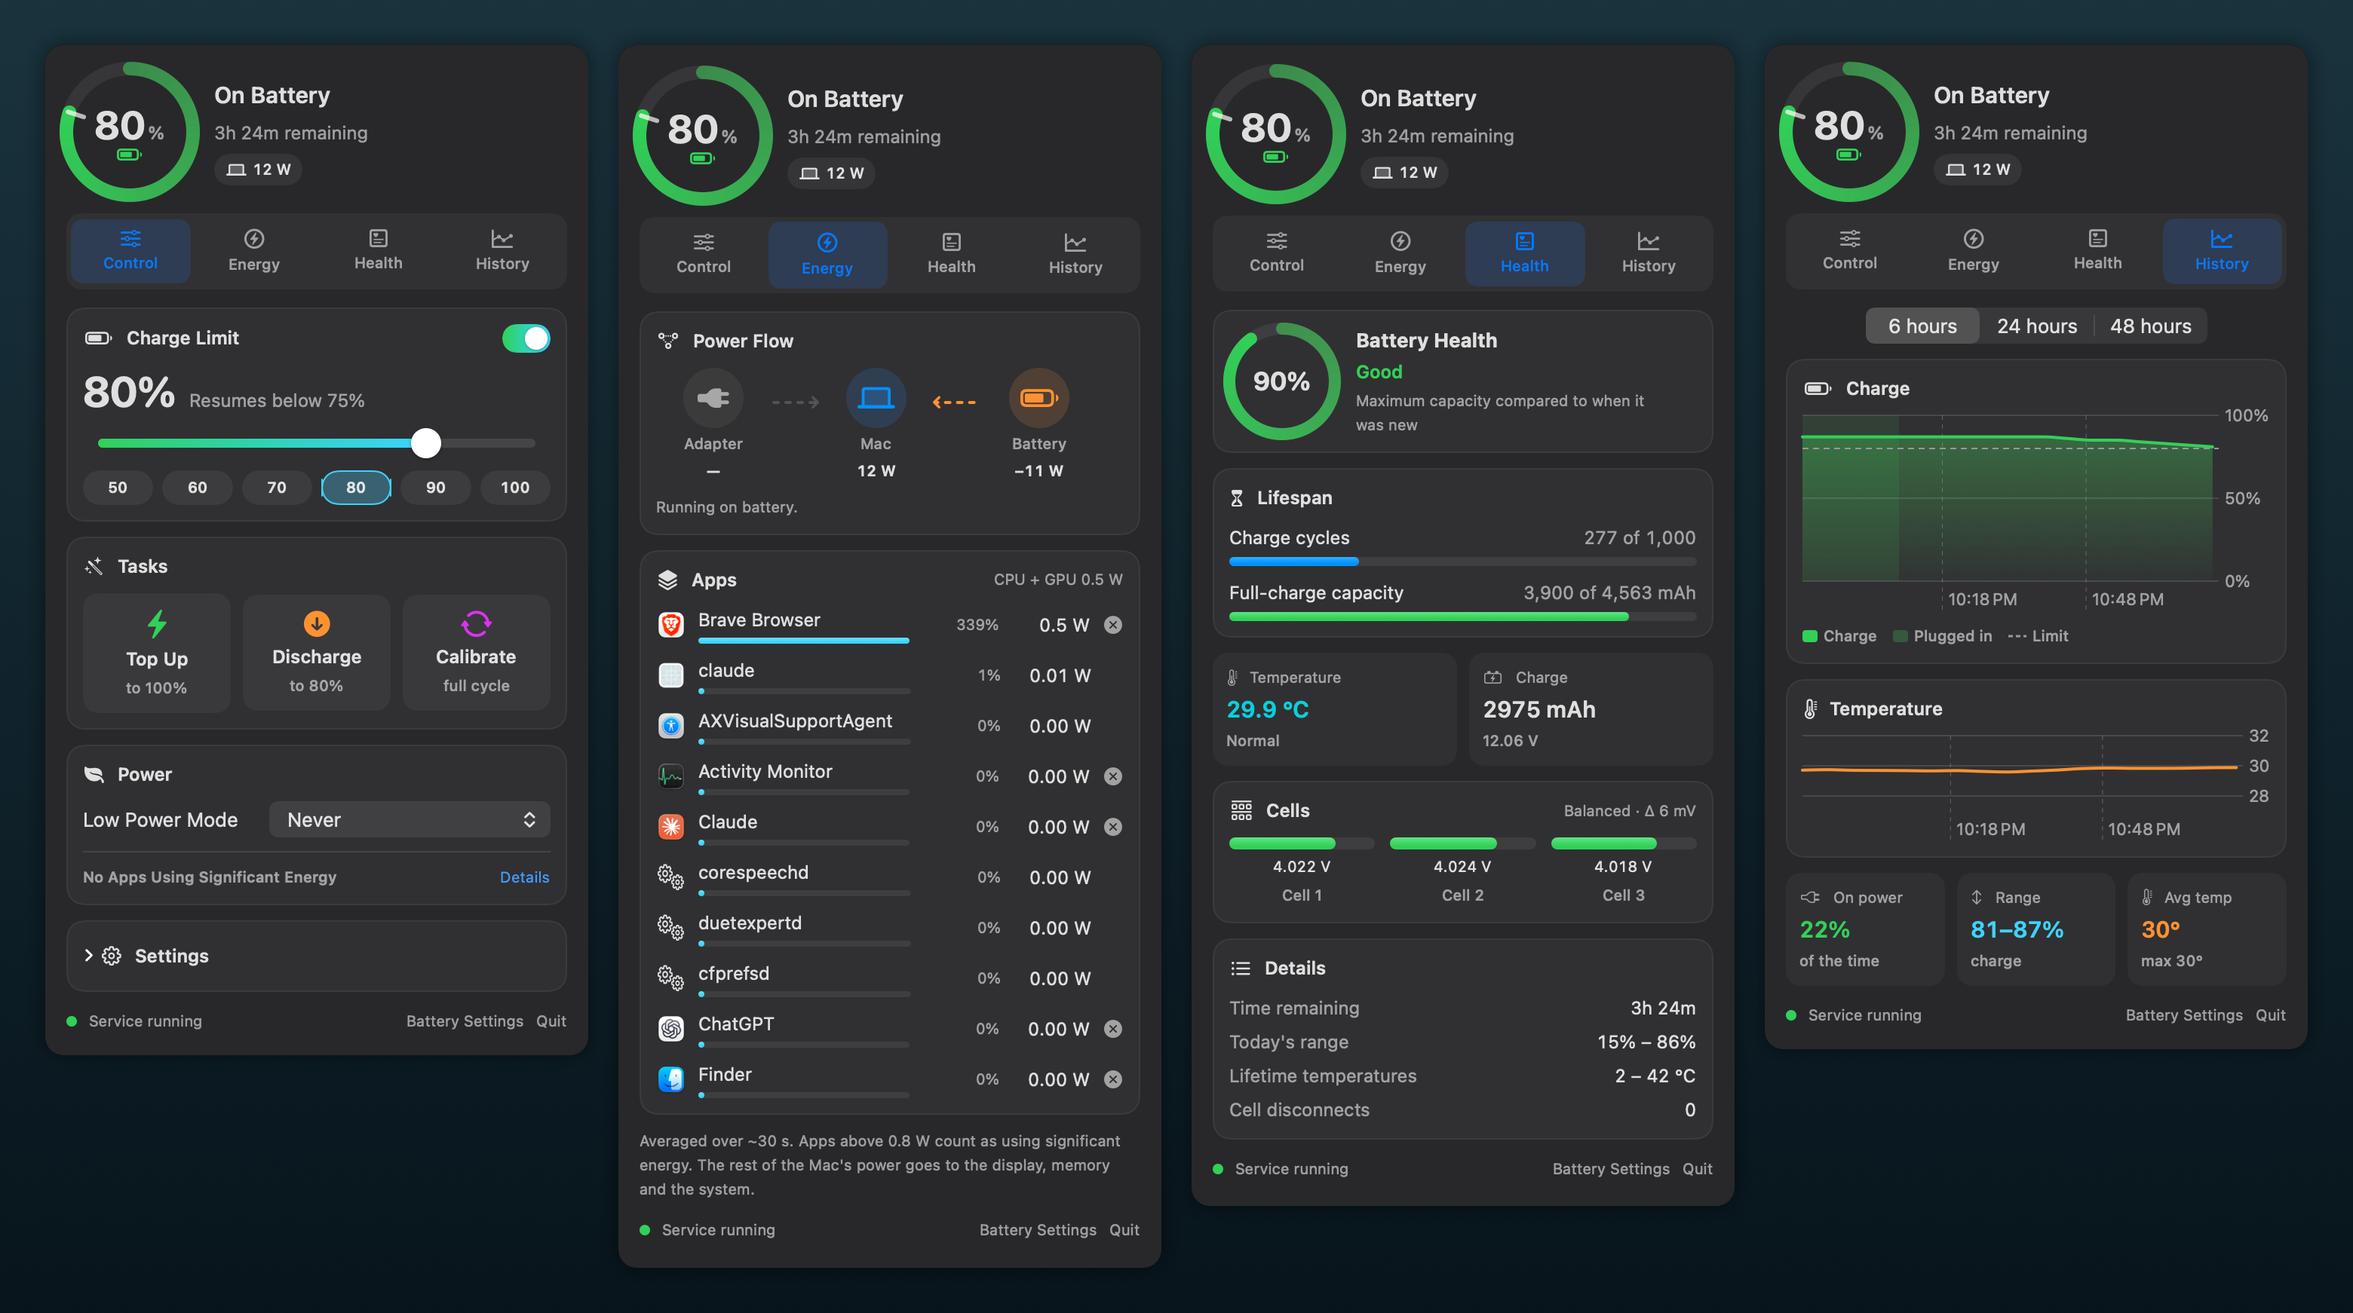
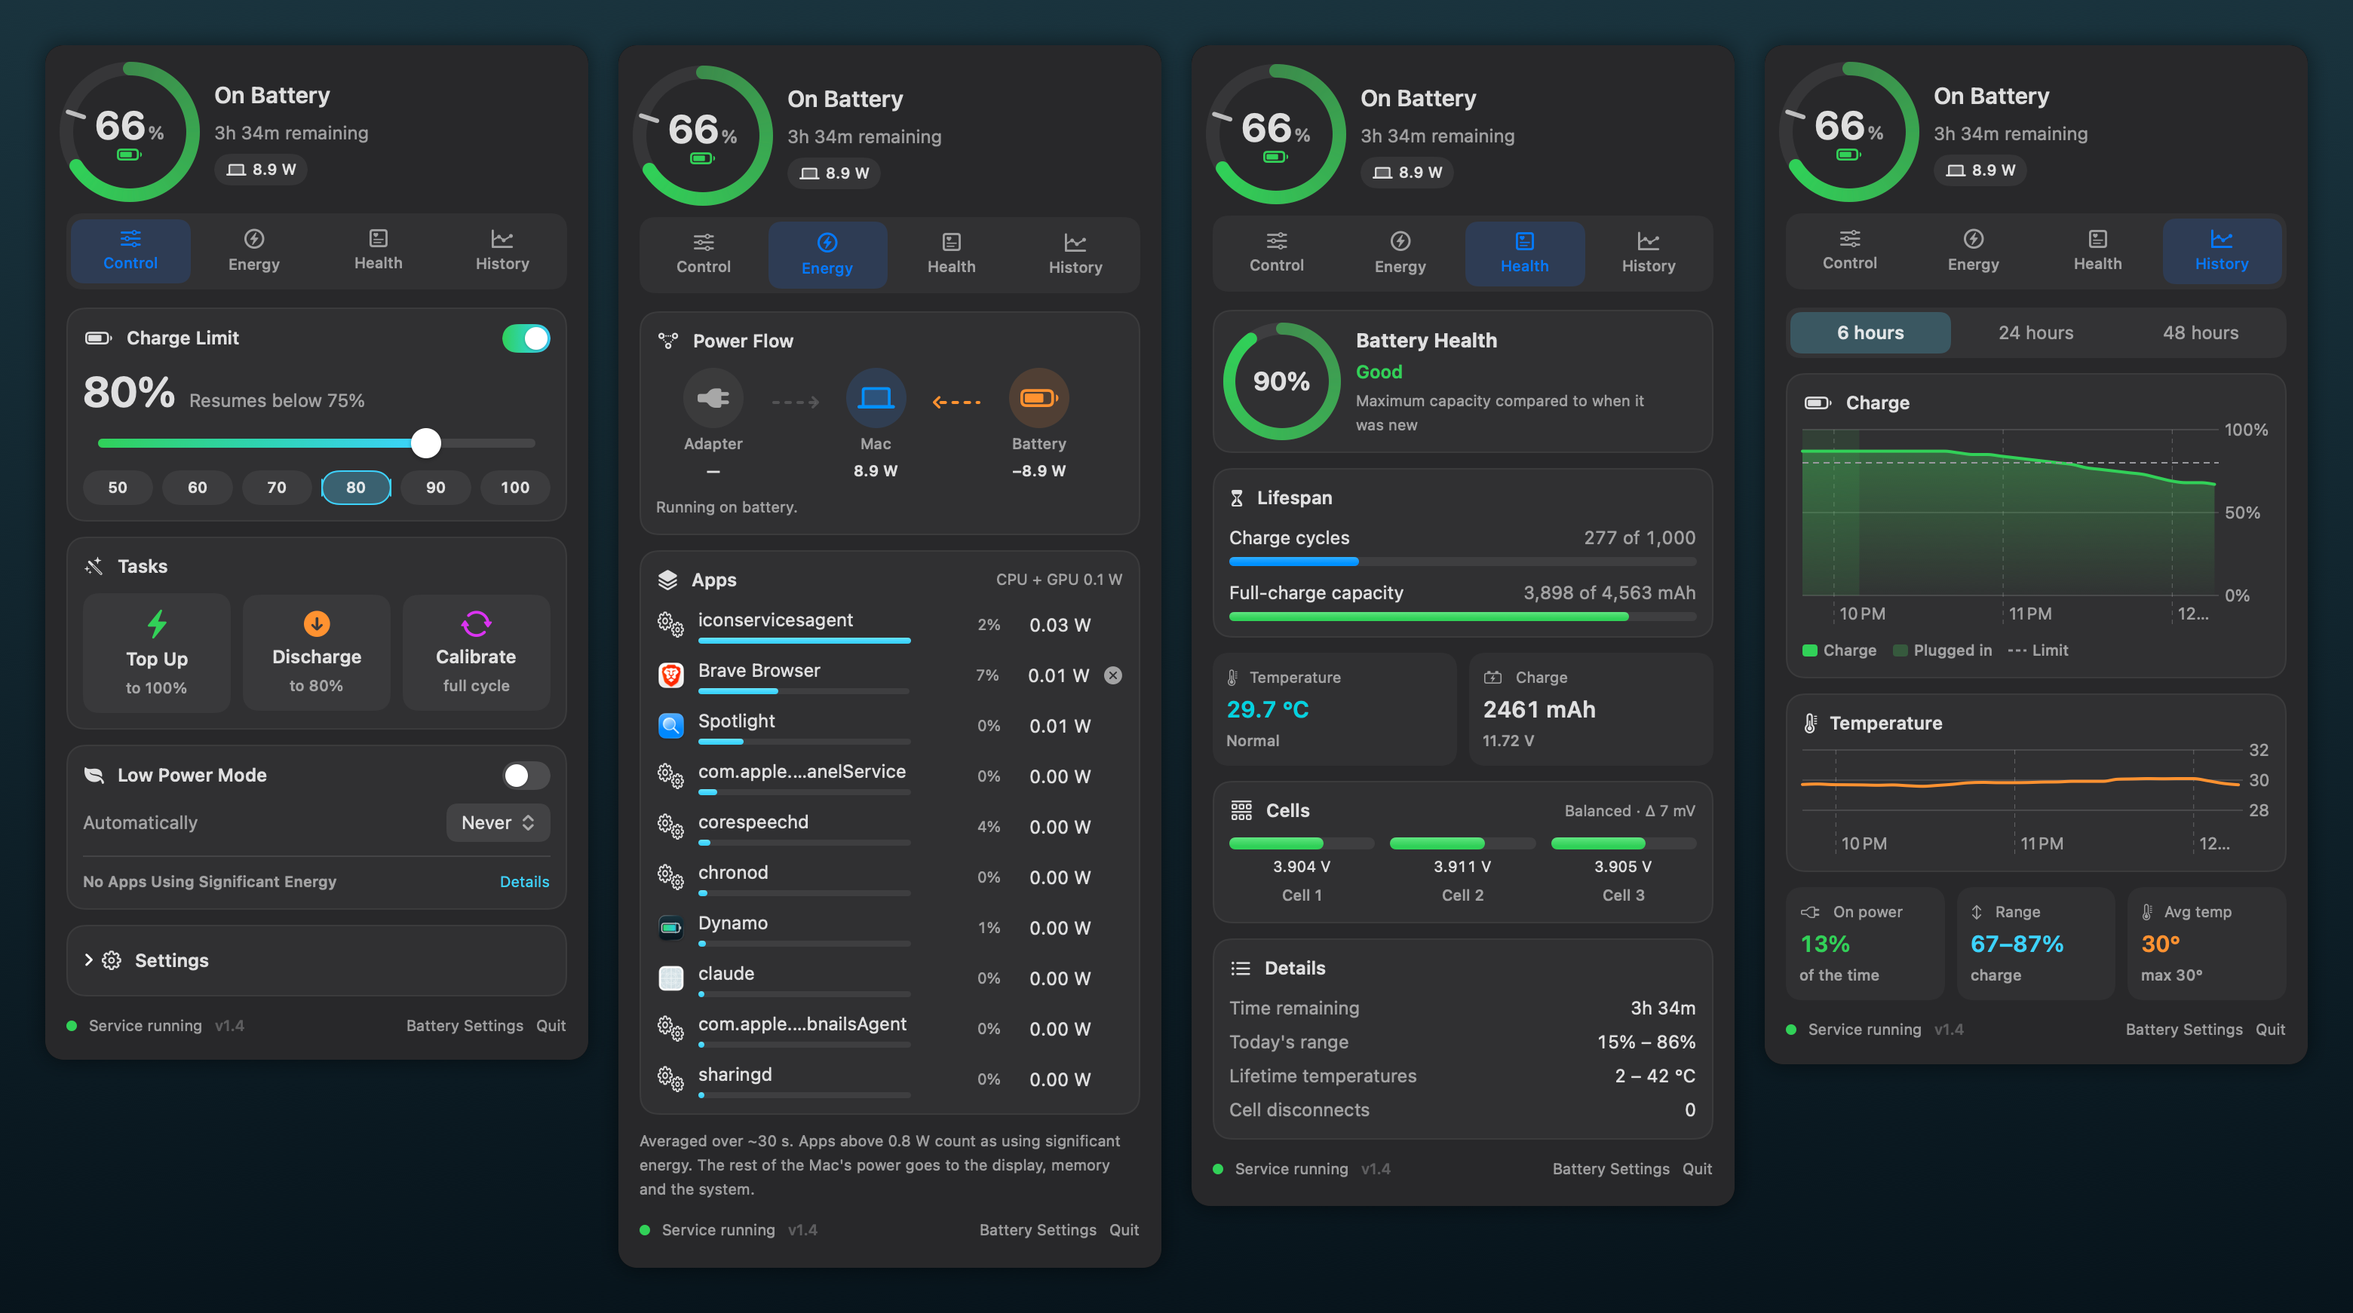
Own SwiftUI controls throughout; 4:5 social gallery images
Replace the remaining AppKit controls (pop-up, steppers, segmented picker,
link/borderless/prominent buttons) with SwiftUI ones so the panel looks the
same focused or not and renders crisply at any scale. Add
Tools/make-social-images.swift for 2160x2700 portrait images.

diff --git a/Sources/App/Views.swift b/Sources/App/Views.swift
@@ -39,11 +39,10 @@ struct UpdateCheckRow: View {
     var body: some View {
         HStack(spacing: 8) {
             Button("Check for Updates") { model.checkForUpdatesNow() }
-                .controlSize(.small)
+                .buttonStyle(CapsuleButtonStyle())
                 .disabled(model.updateCheck == .checking)
             switch model.updateCheck {
             case .checking:
-                ProgressView().controlSize(.small)
                 Text("Checking…").font(.caption).foregroundStyle(.secondary)
             case .upToDate:
                 Label("You're up to date (\(appVersion))", systemImage: "checkmark.circle.fill")
@@ -70,12 +69,11 @@ struct UpdateBanner: View {
             VStack(alignment: .leading, spacing: 1) {
                 Text("Dynamo \(release.version) is available").font(.callout.weight(.semibold))
                 Button("What's new") { NSWorkspace.shared.open(release.url) }
-                    .buttonStyle(.link).font(.caption)
+                    .buttonStyle(LinkStyle()).font(.caption)
             }
             Spacer()
             Button("Update") { Updater.runUpdate(release) }
-                .buttonStyle(.borderedProminent)
-                .tint(.cyan)
+                .buttonStyle(CapsuleButtonStyle(prominent: true))
                 .help("Downloads the new version and reinstalls it (asks for your password)")
         }
         .padding(10)
@@ -354,6 +352,133 @@ struct SettingLabel: View {
     }
 }
 
+// MARK: - Own controls
+// Drawn in SwiftUI rather than AppKit so they keep their colors when the popover
+// isn't focused, and so the panel renders crisply at any scale for screenshots.
+
+struct LinkStyle: ButtonStyle {
+    var color: Color = .cyan
+
+    func makeBody(configuration: Configuration) -> some View {
+        configuration.label
+            .foregroundStyle(color)
+            .opacity(configuration.isPressed ? 0.6 : 1)
+            .contentShape(Rectangle())
+    }
+}
+
+struct CapsuleButtonStyle: ButtonStyle {
+    var prominent = false
+    @Environment(\.isEnabled) private var isEnabled
+
+    func makeBody(configuration: Configuration) -> some View {
+        configuration.label
+            .font(.callout.weight(prominent ? .semibold : .regular))
+            .padding(.horizontal, prominent ? 14 : 10)
+            .padding(.vertical, 5)
+            .foregroundStyle(prominent ? Color.black : Color.primary)
+            .background(prominent ? AnyShapeStyle(Color.cyan) : AnyShapeStyle(Color.primary.opacity(0.1)),
+                        in: Capsule())
+            .opacity(!isEnabled ? 0.5 : configuration.isPressed ? 0.75 : 1)
+            .contentShape(Capsule())
+    }
+}
+
+/// A pop-up choice: looks like a pill, opens a native menu.
+struct ChoiceMenu<T: Hashable>: View {
+    var options: [(T, String)]
+    var selection: T
+    var onSelect: (T) -> Void
+
+    var body: some View {
+        Button(action: showMenu) {
+            HStack(spacing: 6) {
+                Text(options.first { $0.0 == selection }?.1 ?? "")
+                Image(systemName: "chevron.up.chevron.down").font(.caption2.weight(.bold)).foregroundStyle(.secondary)
+            }
+            .padding(.horizontal, 10)
+            .padding(.vertical, 4)
+            .background(Color.primary.opacity(0.1), in: RoundedRectangle(cornerRadius: 7))
+        }
+        .buttonStyle(LinkStyle(color: .primary))
+    }
+
+    private func showMenu() {
+        let menu = NSMenu()
+        for (value, title) in options {
+            let item = ClosureMenuItem(title: title) { onSelect(value) }
+            item.state = value == selection ? .on : .off
+            menu.addItem(item)
+        }
+        menu.popUp(positioning: nil, at: NSEvent.mouseLocation, in: nil)
+    }
+}
+
+final class ClosureMenuItem: NSMenuItem {
+    private let handler: () -> Void
+
+    init(title: String, handler: @escaping () -> Void) {
+        self.handler = handler
+        super.init(title: title, action: #selector(fire), keyEquivalent: "")
+        target = self
+    }
+
+    required init(coder: NSCoder) { fatalError("not used") }
+
+    @objc private func fire() { handler() }
+}
+
+struct StepperControl: View {
+    var value: Int
+    var range: ClosedRange<Int>
+    var onChange: (Int) -> Void
+
+    var body: some View {
+        HStack(spacing: 0) {
+            stepButton("minus", to: value - 1)
+            Divider().frame(height: 14)
+            stepButton("plus", to: value + 1)
+        }
+        .background(Color.primary.opacity(0.1), in: Capsule())
+    }
+
+    private func stepButton(_ icon: String, to next: Int) -> some View {
+        Button { onChange(next) } label: {
+            Image(systemName: icon).font(.caption.weight(.bold))
+                .frame(width: 28, height: 22)
+                .contentShape(Rectangle())
+        }
+        .buttonStyle(LinkStyle(color: .primary))
+        .disabled(!range.contains(next))
+        .opacity(range.contains(next) ? 1 : 0.35)
+    }
+}
+
+struct Segmented<T: Hashable>: View {
+    var options: [(T, String)]
+    @Binding var selection: T
+
+    var body: some View {
+        HStack(spacing: 3) {
+            ForEach(options, id: \.0) { value, title in
+                let selected = value == selection
+                Button { withAnimation(.easeInOut(duration: 0.15)) { selection = value } } label: {
+                    Text(title)
+                        .font(.callout.weight(selected ? .semibold : .regular))
+                        .frame(maxWidth: .infinity)
+                        .padding(.vertical, 5)
+                        .background(selected ? Color.cyan.opacity(0.22) : .clear, in: RoundedRectangle(cornerRadius: 7))
+                        .foregroundStyle(selected ? Color.primary : .secondary)
+                        .contentShape(Rectangle())
+                }
+                .buttonStyle(.plain)
+            }
+        }
+        .padding(3)
+        .background(Color.primary.opacity(0.06), in: RoundedRectangle(cornerRadius: 9))
+    }
+}
+
 /// The app's own switch, in its accent color. (System switches turn grey whenever
 /// the popover isn't the focused window.)
 struct PillSwitch: View {
@@ -625,13 +750,9 @@ struct PowerCard: View {
             HStack {
                 Text("Automatically").foregroundStyle(.secondary)
                 Spacer()
-                Picker("", selection: Binding(get: { model.lowPowerMode ?? .never },
-                                              set: { model.setLowPowerMode($0) })) {
-                    ForEach(LowPowerMode.allCases) { Text($0.title).tag($0) }
-                }
-                .labelsHidden()
-                .fixedSize()
-                .disabled(!model.daemonRunning)
+                ChoiceMenu(options: LowPowerMode.allCases.map { ($0, $0.title) },
+                           selection: model.lowPowerMode ?? .never) { model.setLowPowerMode($0) }
+                    .disabled(!model.daemonRunning)
             }
             .font(.callout)
             Divider()
@@ -640,7 +761,7 @@ struct PowerCard: View {
                     .font(.caption.weight(.semibold)).foregroundStyle(.secondary)
                 Spacer()
                 Button("Details") { withAnimation { model.tab = 3 } }
-                    .buttonStyle(.link).font(.caption)
+                    .buttonStyle(LinkStyle()).font(.caption)
             }
             ForEach(apps.prefix(4)) { AppEnergyRow(app: $0, maxWatts: apps.first?.watts ?? 1, compact: true) }
         }
@@ -662,10 +783,7 @@ struct SettingsCard: View {
                         SettingLabel(title: "Sailing range: \(cfg.sailing)%",
                                      detail: "Avoids topping up after every small drop")
                         Spacer(minLength: 8)
-                        Stepper("", value: Binding(get: { model.config.sailing },
-                                                   set: { v in model.update { $0.sailing = v } }),
-                                in: 0...30)
-                            .labelsHidden()
+                        StepperControl(value: cfg.sailing, range: 0...30) { v in model.update { $0.sailing = v } }
                     }
                     SettingToggle(title: "Pause charging when hot",
                                   detail: "Heat ages batteries faster than anything else",
@@ -676,10 +794,9 @@ struct SettingsCard: View {
                             SettingLabel(title: "Pause above \(Int(cfg.heatMaxC)) °C", detail: nil)
                                 .foregroundStyle(.secondary)
                             Spacer(minLength: 8)
-                            Stepper("", value: Binding(get: { model.config.heatMaxC },
-                                                       set: { v in model.update { $0.heatMaxC = v } }),
-                                    in: 25...60)
-                                .labelsHidden()
+                            StepperControl(value: Int(cfg.heatMaxC), range: 25...60) { v in
+                                model.update { $0.heatMaxC = Double(v) }
+                            }
                         }
                         .padding(.leading, 12)
                     }
@@ -1017,14 +1134,7 @@ struct HistoryTab: View {
         // Don't squash a short history into the right edge of a long window.
         let since = max(windowStart, samples.first?.t ?? windowStart)
         VStack(alignment: .leading, spacing: 10) {
-            Picker("", selection: $hours) {
-                Text("6 hours").tag(6)
-                Text("24 hours").tag(24)
-                Text("48 hours").tag(48)
-            }
-            .pickerStyle(.segmented)
-            .labelsHidden()
-            .frame(maxWidth: .infinity)
+            Segmented(options: [(6, "6 hours"), (24, "24 hours"), (48, "48 hours")], selection: $hours)
 
             if samples.count < 2 {
                 Card {
@@ -1175,11 +1285,11 @@ struct Footer: View {
             Button("Battery Settings") {
                 NSWorkspace.shared.open(URL(string: "x-apple.systempreferences:com.apple.Battery-Settings.extension")!)
             }
-            .buttonStyle(.borderless)
+            .buttonStyle(LinkStyle(color: .secondary))
             .font(.caption)
             .help("Open macOS Battery settings")
             Button("Quit") { NSApplication.shared.terminate(nil) }
-                .buttonStyle(.borderless)
+                .buttonStyle(LinkStyle(color: .secondary))
                 .font(.caption)
         }
     }

diff --git a/Tools/make-social-images.swift b/Tools/make-social-images.swift
@@ -1,0 +1,69 @@
+import AppKit
+
+// Builds a 4:5 portrait gallery (2160 × 2700) for Reddit / X / LinkedIn into
+// docs/social/, from the 3x renders in build/snapshots.
+//   ./build.sh snapshot && swift Tools/make-social-images.swift
+let W = 2160, H = 2700
+let slides: [(file: String, tab: String, title: String, subtitle: String)] = [
+    ("1-dynamo", "control", "Dynamo", "Free, open-source battery care for Apple Silicon Macs"),
+    ("2-energy", "energy", "See where your power goes", "Live power flow and the apps using the most energy"),
+    ("3-health", "health", "Know your battery's health", "Health, cycles, temperature and every cell's voltage"),
+    ("4-history", "history", "Track charge and heat", "Up to 48 hours of charge and temperature history"),
+]
+let bg = NSGradient(colors: [NSColor(red: 0.10, green: 0.20, blue: 0.24, alpha: 1),
+                             NSColor(red: 0.03, green: 0.08, blue: 0.11, alpha: 1)])!
+let cyan = NSColor(red: 0.35, green: 0.92, blue: 1.0, alpha: 1)
+
+func centered(_ s: String, size: CGFloat, weight: NSFont.Weight, color: NSColor, y: CGFloat) {
+    let p = NSMutableParagraphStyle()
+    p.alignment = .center
+    let attrs: [NSAttributedString.Key: Any] = [.font: NSFont.systemFont(ofSize: size, weight: weight),
+                                                .foregroundColor: color, .paragraphStyle: p]
+    NSAttributedString(string: s, attributes: attrs).draw(in: NSRect(x: 80, y: y, width: CGFloat(W - 160), height: size * 1.4))
+}
+
+try? FileManager.default.createDirectory(atPath: "docs/social", withIntermediateDirectories: true)
+for slide in slides {
+    guard let panel = NSImage(contentsOfFile: "build/snapshots/\(slide.tab)-dark@3x.png")?.representations.first
+    else { fatalError("missing render for \(slide.tab); run ./build.sh snapshot") }
+    let rep = NSBitmapImageRep(bitmapDataPlanes: nil, pixelsWide: W, pixelsHigh: H, bitsPerSample: 8,
+                               samplesPerPixel: 4, hasAlpha: true, isPlanar: false, colorSpaceName: .deviceRGB,
+                               bytesPerRow: 0, bitsPerPixel: 0)!
+    NSGraphicsContext.saveGraphicsState()
+    NSGraphicsContext.current = NSGraphicsContext(bitmapImageRep: rep)
+    NSGraphicsContext.current?.imageInterpolation = .high
+    bg.draw(in: NSRect(x: 0, y: 0, width: W, height: H), angle: -90)
+
+    centered(slide.title, size: slide.tab == "control" ? 150 : 112, weight: .bold, color: .white, y: CGFloat(H) - 290)
+    centered(slide.subtitle, size: 56, weight: .medium, color: NSColor(white: 0.82, alpha: 1), y: CGFloat(H) - 420)
+    centered("github.com/arshdwani/Dynamo", size: 46, weight: .semibold, color: cyan, y: 70)
+
+    // Panel: as large as fits between the captions, never enlarged past the 3x render.
+    let maxH = CGFloat(H) - 500 - 190, maxW = CGFloat(W) - 300
+    let scale = min(1.15, maxH / CGFloat(panel.pixelsHigh), maxW / CGFloat(panel.pixelsWide))
+    let size = NSSize(width: CGFloat(panel.pixelsWide) * scale, height: CGFloat(panel.pixelsHigh) * scale)
+    let rect = NSRect(x: (CGFloat(W) - size.width) / 2, y: 190 + (maxH - size.height) / 2,
+                      width: size.width, height: size.height)
+    let shape = NSBezierPath(roundedRect: rect, xRadius: 44, yRadius: 44)
+    NSGraphicsContext.saveGraphicsState()
+    let shadow = NSShadow()
+    shadow.shadowBlurRadius = 60
+    shadow.shadowColor = NSColor.black.withAlphaComponent(0.55)
+    shadow.shadowOffset = NSSize(width: 0, height: -16)
+    shadow.set()
+    NSColor.black.setFill()
+    shape.fill()
+    NSGraphicsContext.restoreGraphicsState()
+    NSGraphicsContext.saveGraphicsState()
+    shape.addClip()
+    panel.draw(in: rect)
+    NSGraphicsContext.restoreGraphicsState()
+    NSColor.white.withAlphaComponent(0.12).setStroke()
+    shape.lineWidth = 3
+    shape.stroke()
+    NSGraphicsContext.restoreGraphicsState()
+
+    try! rep.representation(using: .png, properties: [:])!
+        .write(to: URL(fileURLWithPath: "docs/social/\(slide.file).png"))
+    print("docs/social/\(slide.file).png  scale \(String(format: "%.2f", scale))")
+}

diff --git a/Tools/Snapshot/main.swift b/Tools/Snapshot/main.swift
@@ -84,6 +84,15 @@ MainActor.assumeIsolated {
             bg.cacheDisplay(in: bg.bounds, to: rep)
             let path = "\(out)/\(tabName)-\(name).png"
             try? rep.representation(using: .png, properties: [:])?.write(to: URL(fileURLWithPath: path))
+            // 3x render for large-format images (Tools/make-social-images.swift).
+            let big = ImageRenderer(content: PanelView().environmentObject(model)
+                .environment(\.colorScheme, appearance == .darkAqua ? .dark : .light)
+                .background(Color(nsColor: background(appearance))))
+            big.scale = 3
+            if let cg = big.cgImage {
+                try? NSBitmapImageRep(cgImage: cg).representation(using: .png, properties: [:])?
+                    .write(to: URL(fileURLWithPath: "\(out)/\(tabName)-\(name)@3x.png"))
+            }
             print(path, Int(size.width), "x", Int(size.height))
             window.orderOut(nil)
         }
